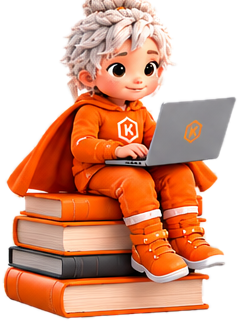
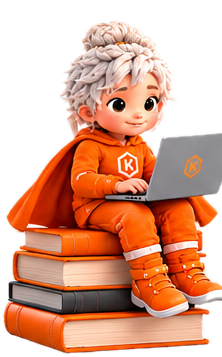
feat(etablissements): refonte du hero et ajout des niveaux + subvention MANOLO
- Corrige la mascotte (tête complète, plus de mèche coupée)
- Nouveau titre du hero, plus factuel : ce qu'est KeyPace, pour qui
- Ajoute le badge d'éligibilité à la subvention MANOLO (Fédération Wallonie-Bruxelles)
- Ajoute une section « Pour chaque niveau » : 3 cartes Primaire/Secondaire/Supérieur
  (cliquables, préremplissent le formulaire de démo ; navigation dédiée à venir)
- Reprend le style carte dégradée du bandeau licence établissement pour ces 3 cartes
- Retire la barre de 4 chiffres (contenu redondant avec les sections plus bas)
- Renomme « Le parcours » en « Notre méthode », texte clarifié
- Réécrit la section élèves pour projeter l'enseignant dans sa classe

diff --git a/index.html b/index.html
@@ -345,7 +345,8 @@ ul,ol{list-style-position:inside}
   .etab-hero-btns button{width:100%!important;padding:14px 20px!important;font-size:15px!important}
   .etab-hero-visual{order:-1;margin-bottom:8px}
   .etab-hero-visual img{height:160px!important}
-  .etab-stats{grid-template-columns:1fr 1fr!important;gap:0!important;margin-bottom:36px!important}
+  .etab-levels{margin-bottom:40px!important}
+  .etab-levels-grid{grid-template-columns:1fr!important;gap:10px!important}
   .etab-problem{grid-template-columns:1fr!important;gap:20px!important;margin-bottom:44px!important}
   .etab-avant-apres{font-family:inherit!important;font-size:14px!important;padding:20px!important}
   .etab-section-mb{margin-bottom:44px!important}
@@ -575,6 +576,15 @@ nav{border-bottom:1px solid var(--border);background:rgba(250,249,245,0.92);back
   .school-banner-feats{justify-content:center}
   .school-banner-actions{justify-content:center}
 }
+
+/* NIVEAUX établissements (cartes dégradées, même famille visuelle que le school-banner) */
+.etab-level-card{position:relative;overflow:hidden;background:linear-gradient(135deg,#FF4D2E 0%,#ff7a4d 100%);border-radius:20px;padding:26px 24px;cursor:pointer;color:#fff;box-shadow:0 14px 32px rgba(255,77,46,.24);transition:transform .15s,box-shadow .15s}
+.etab-level-card::before{content:'';position:absolute;top:-36px;right:-28px;width:120px;height:120px;background:rgba(255,255,255,.10);border-radius:50%}
+.etab-level-card:hover{transform:translateY(-4px);box-shadow:0 20px 40px rgba(255,77,46,.32)}
+.etab-level-card-icon{position:relative;z-index:1;width:44px;height:44px;border-radius:12px;background:rgba(255,255,255,.22);display:flex;align-items:center;justify-content:center;font-size:22px;margin-bottom:16px}
+.etab-level-card-title{position:relative;z-index:1;font-family:'Bricolage Grotesque',sans-serif;font-weight:800;font-size:18px;margin-bottom:8px}
+.etab-level-card-desc{position:relative;z-index:1;font-size:13.5px;line-height:1.55;color:rgba(255,255,255,.92);margin-bottom:16px}
+.etab-level-card-link{position:relative;z-index:1;font-size:13px;font-weight:700;text-decoration:underline;text-underline-offset:3px;opacity:.95}
 
 /* AVIS (home, après le bandeau licence établissement) */
 .reviews-section{max-width:1120px;margin:0 auto;padding:0 24px 70px}
@@ -1922,6 +1932,13 @@ function loadSession(){
 }
 
 function openModal(id,opts){if(id==='upgrade-modal'&&!(opts&&opts.silent)){try{track('upgrade_wall_shown');}catch{}}document.getElementById(id).classList.add('open');}
+function openSchoolModal(niveau){
+  openModal('school-modal');
+  if(niveau){
+    const msg=document.getElementById('school-message');
+    if(msg && !msg.value)msg.placeholder=`Intéressé par le niveau ${niveau}. Contexte, questions, délai souhaité…`;
+  }
+}
 function closeModal(id){document.getElementById(id).classList.remove('open');}
 
 function openAuth(tab, contextMsg, callback){
@@ -10002,11 +10019,10 @@ const app={
   /* ── STATS ── */
   renderEtablissement(){
     const A='var(--accent)';
-    const rows=[
-      ['65',"leçons progressives","du niveau zéro à 60 mots/min"],
-      ['100%',"en ligne, sans installation","fonctionne sur n'importe quel PC de l'école"],
-      ['5 min',"pour créer une classe","et inviter tous vos élèves"],
-      ['AZERTY',"clavier français natif","conçu pour le français dès le départ"],
+    const levels=[
+      [ICONS.gradCap,'Primaire',"Premiers pas sur le clavier en s'amusant : position des doigts et repères de base, à travers le jeu."],
+      [ICONS.bookOpen,'Secondaire',"Le socle de la frappe au clavier pour aborder sereinement les évaluations et les travaux plus longs."],
+      [ICONS.school,'Supérieur',"De la prise de notes en amphi aux mémoires : une frappe rapide et fiable pour tout le cursus."],
     ];
     const avantItems=[
       ['✕',"frappe à 2 index, regard sur le clavier"],
@@ -10078,11 +10094,14 @@ const app={
           Écoles · Universités · Centres de formation
         </div>
         <h1 style="font-family:'Bricolage Grotesque',sans-serif;font-weight:900;font-size:clamp(30px,4.2vw,52px);line-height:1.08;letter-spacing:-.02em;margin:0 0 20px">
-          Vos élèves tapent encore avec deux doigts.<br><span style="color:${A}">Il est temps de changer ça.</span>
+          La plateforme qui apprend à vos élèves à taper au clavier,<br><span style="color:${A}">du primaire au supérieur.</span>
         </h1>
-        <p style="font-size:18px;color:var(--muted);max-width:560px;margin:0 0 36px;line-height:1.6">
+        <p style="font-size:18px;color:var(--muted);max-width:560px;margin:0 0 20px;line-height:1.6">
           KeyPace est la plateforme de dactylographie pensée pour les établissements francophones : pédagogie progressive, tableau de bord enseignant et devoirs assignables en quelques clics.
         </p>
+        <div style="display:inline-flex;align-items:center;gap:8px;background:rgba(255,77,46,.08);border:1px solid rgba(255,77,46,.25);border-radius:999px;padding:8px 16px;font-size:13px;font-weight:700;color:${A};margin-bottom:28px">
+          <span style="display:flex">${ICONS.award}</span> Éligible à la subvention MANOLO · Fédération Wallonie-Bruxelles
+        </div>
         <div class="etab-hero-btns" style="display:flex;gap:12px;flex-wrap:wrap">
           <button onclick="openModal('school-modal')" style="background:${A};color:#fff;border:none;border-radius:14px;padding:16px 32px;font:inherit;font-size:16px;font-weight:800;cursor:pointer;box-shadow:0 8px 24px rgba(255,77,46,.35);transition:transform .15s" onmouseenter="this.style.transform='translateY(-2px)'" onmouseleave="this.style.transform=''">Demander une démo gratuite →</button>
           <button onclick="go('lessons')" style="background:var(--card);color:var(--txt);border:1.5px solid var(--border);border-radius:14px;padding:16px 28px;font:inherit;font-size:16px;font-weight:700;cursor:pointer;transition:transform .15s" onmouseenter="this.style.transform='translateY(-2px)'" onmouseleave="this.style.transform=''">Tester les cours maintenant</button>
@@ -10090,13 +10109,20 @@ const app={
       </div>
       <div class="etab-hero-visual" style="position:relative;display:flex;justify-content:center">
         <div style="position:absolute;inset:-18%;background:radial-gradient(closest-side,rgba(255,140,66,.16),rgba(255,140,66,.05) 60%,transparent 75%);border-radius:50%;z-index:0"></div>
-        <img src="/images/keypace-mascot-books.webp" alt="" width="239" height="322" loading="eager" decoding="async" style="position:relative;z-index:1;height:clamp(200px,24vw,300px);width:auto">
+        <img src="/images/keypace-mascot-books.webp" alt="" width="222" height="357" loading="eager" decoding="async" style="position:relative;z-index:1;height:clamp(200px,24vw,300px);width:auto">
       </div>
     </div>
   </div>
-  <!-- CHIFFRES -->
-  <div class="etab-stats" style="display:grid;grid-template-columns:repeat(auto-fit,minmax(180px,1fr));gap:1px;background:var(--border);border:1px solid var(--border);border-radius:20px;overflow:hidden;margin-bottom:72px">
-    ${rows.map(([n,l,s])=>`<div style="background:var(--card);padding:28px 24px;text-align:center"><div style="font-family:'JetBrains Mono',monospace;font-size:32px;font-weight:700;color:${A};margin-bottom:6px">${n}</div><div style="font-size:14px;font-weight:700;margin-bottom:4px">${l}</div><div style="font-size:12px;color:var(--muted);line-height:1.4">${s}</div></div>`).join('')}
+  <!-- NIVEAUX -->
+  <div class="etab-levels" style="margin-bottom:64px">
+    <div style="text-align:center;margin-bottom:28px">
+      <div style="font-size:12px;font-weight:700;letter-spacing:.08em;color:${A};margin-bottom:10px">POUR CHAQUE NIVEAU</div>
+      <h2 style="font-family:'Bricolage Grotesque',sans-serif;font-weight:800;font-size:clamp(20px,3vw,32px);margin:0 0 12px">Un parcours pensé pour l'âge de vos élèves</h2>
+      <p style="color:var(--muted);font-size:15px;max-width:460px;margin:0 auto">Primaire, secondaire ou supérieur : le contenu, le rythme et le ton s'adaptent.</p>
+    </div>
+    <div class="etab-levels-grid" style="display:grid;grid-template-columns:repeat(3,1fr);gap:16px">
+      ${levels.map(([ic,t,d])=>`<div class="etab-level-card" onclick="openSchoolModal('${t}')"><div class="etab-level-card-icon">${ic}</div><div class="etab-level-card-title">${t}</div><div class="etab-level-card-desc">${d}</div><div class="etab-level-card-link">En savoir plus →</div></div>`).join('')}
+    </div>
   </div>
   <!-- PROBLÈME -->
   <div class="etab-problem etab-section-mb" style="display:grid;grid-template-columns:1fr 1fr;gap:40px;align-items:center;margin-bottom:80px">
@@ -10128,9 +10154,9 @@ const app={
   <!-- PARCOURS + DASHBOARD MOCK -->
   <div class="etab-parcours-card" style="background:var(--card);border:1px solid var(--border);border-radius:24px;padding:48px 40px;margin-bottom:72px;display:grid;grid-template-columns:1fr 1fr;gap:40px;align-items:center">
     <div>
-      <div style="font-size:12px;font-weight:700;letter-spacing:.08em;color:${A};margin-bottom:12px">LE PARCOURS</div>
+      <div style="font-size:12px;font-weight:700;letter-spacing:.08em;color:${A};margin-bottom:12px">NOTRE MÉTHODE</div>
       <h2 style="font-family:'Bricolage Grotesque',sans-serif;font-weight:800;font-size:clamp(18px,2.5vw,28px);line-height:1.2;margin:0 0 14px">65 leçons du niveau zéro à la frappe experte</h2>
-      <p style="color:var(--muted);font-size:14px;line-height:1.65;margin:0 0 18px">Le parcours est divisé en modules progressifs. Chaque leçon introduit 1 ou 2 touches nouvelles et les consolide dans un texte réel en français.</p>
+      <p style="color:var(--muted);font-size:14px;line-height:1.65;margin:0 0 18px">Une progression pas à pas, pas un exercice unique jeté aux élèves. Chaque leçon introduit 1 ou 2 touches nouvelles et les consolide dans un texte réel en français, jusqu'à l'automatisme.</p>
       <div style="display:flex;flex-direction:column;gap:8px">
         ${modules.map(([dot,mod,desc])=>`<div style="display:flex;align-items:center;gap:12px;background:var(--bg);border-radius:10px;padding:10px 14px"><span style="font-size:10px">${dot}</span><div><b style="font-size:13px">${mod}</b> <span style="color:var(--muted);font-size:12px">: ${desc}</span></div></div>`).join('')}
       </div>
@@ -10160,8 +10186,8 @@ const app={
   <div class="etab-student-section" style="background:var(--card);border:1px solid var(--border);border-radius:24px;padding:48px 40px;margin-bottom:72px">
     <div style="text-align:center;margin-bottom:36px">
       <div style="font-size:12px;font-weight:700;letter-spacing:.08em;color:${A};margin-bottom:10px">POUR LES ÉLÈVES</div>
-      <h2 style="font-family:'Bricolage Grotesque',sans-serif;font-weight:800;font-size:clamp(20px,3vw,32px);margin:0 0 12px">Une expérience qui donne envie de progresser</h2>
-      <p style="color:var(--muted);font-size:15px;max-width:500px;margin:0 auto">Pas un simple exercice scolaire : un vrai produit avec des jeux, des défis et une progression visible qui accroche les élèves.</p>
+      <h2 style="font-family:'Bricolage Grotesque',sans-serif;font-weight:800;font-size:clamp(20px,3vw,32px);margin:0 0 12px">Imaginez votre classe, concentrée... et qui s'amuse</h2>
+      <p style="color:var(--muted);font-size:15px;max-width:520px;margin:0 auto">Pendant que vos élèves enchaînent les leçons, ils jouent, relèvent des défis et décrochent un certificat. Vous, vous voyez leur vitesse grimper en temps réel, sans lever le petit doigt.</p>
     </div>
     <div class="etab-student-grid" style="display:grid;grid-template-columns:repeat(auto-fit,minmax(220px,1fr));gap:16px">
       ${studentFeats.map(([ic,t,d])=>`<div style="background:var(--bg);border:1px solid var(--border);border-radius:16px;padding:20px"><div style="font-size:26px;margin-bottom:10px;color:var(--accent)">${ic}</div><div style="font-weight:700;font-size:14px;margin-bottom:6px">${t}</div><div style="color:var(--muted);font-size:13px;line-height:1.5">${d}</div></div>`).join('')}
